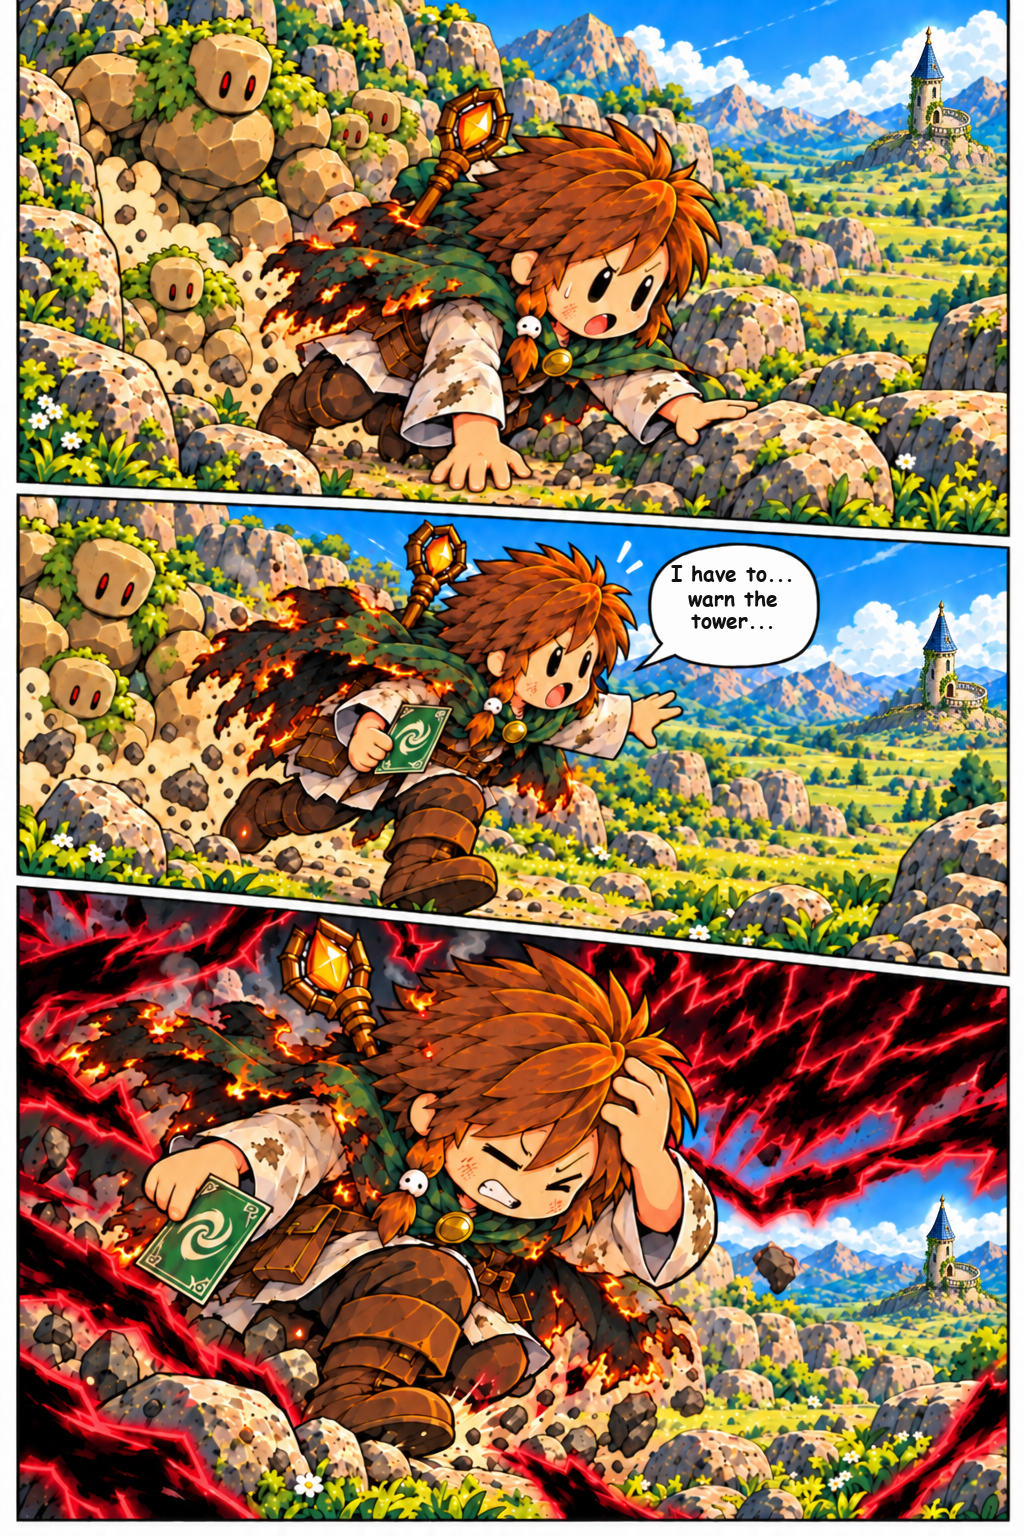
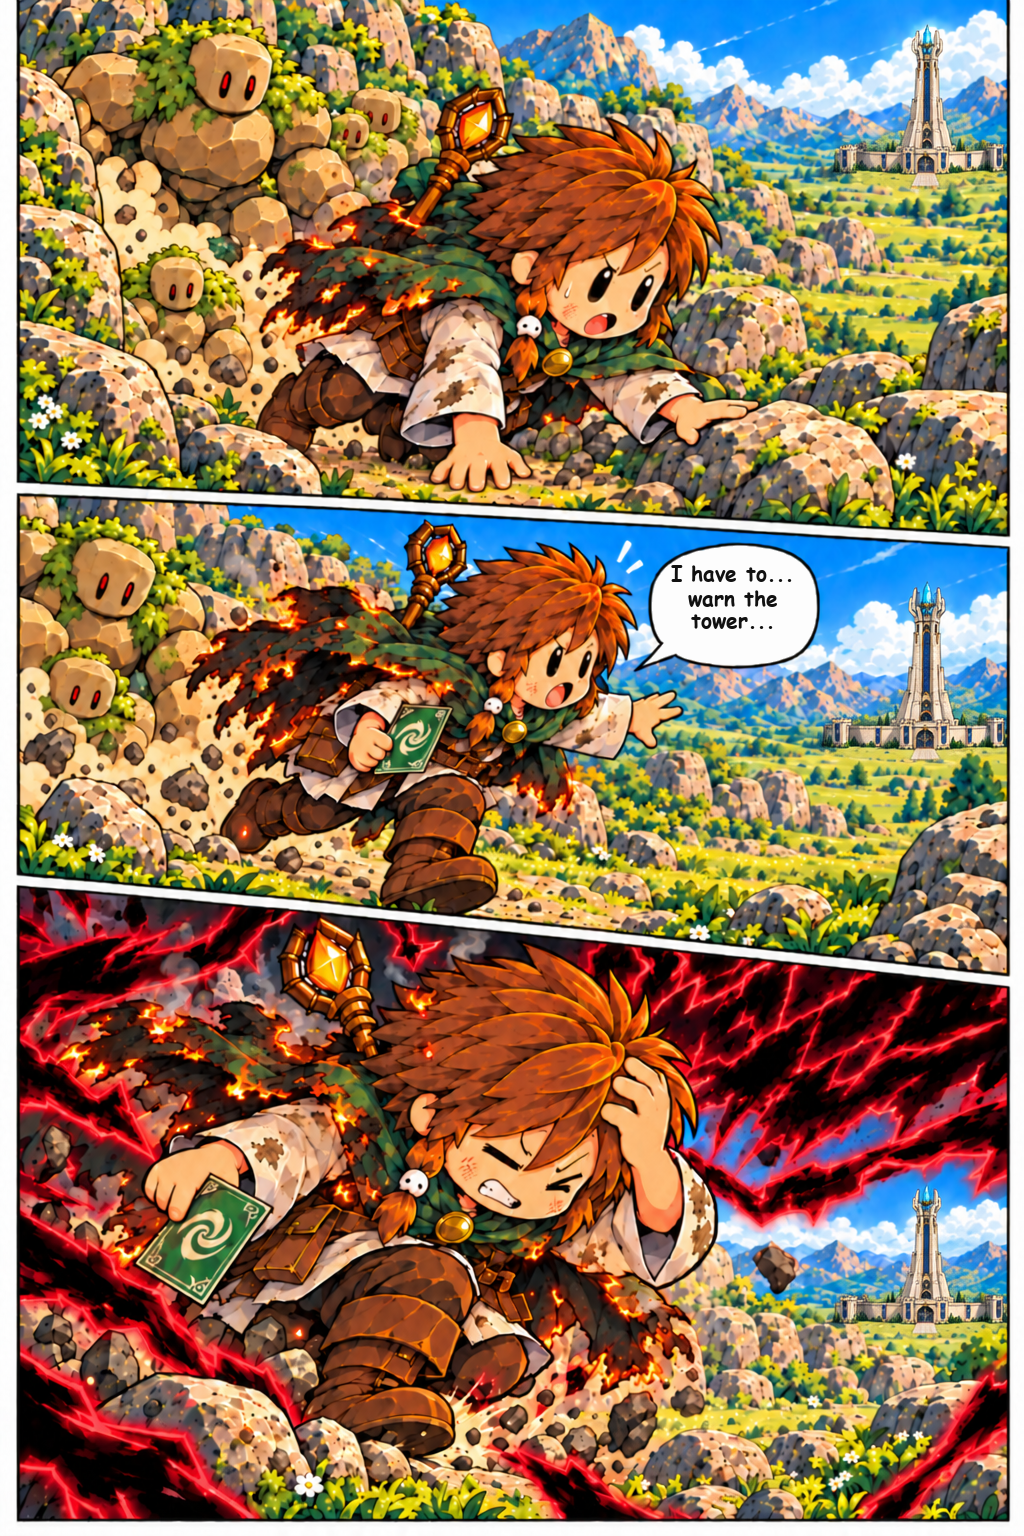
fix: 만화 4화에 승인된 수정 탑 외형 적용

diff --git a/content/arcane-casters/story/episodes/004/index.html b/content/arcane-casters/story/episodes/004/index.html
@@ -2,4 +2,4 @@
 <meta name="viewport" content="width=device-width,initial-scale=1">
 <meta name="robots" content="noindex,noimageindex"><title>4화 · 검토용</title>
 <style>*{box-sizing:border-box}html{background:#0d2238;color:#eef3f8;font-family:system-ui,sans-serif}body{margin:0}header{max-width:900px;margin:auto;padding:24px 16px}h1{font-size:20px;margin:0}main{max-width:900px;margin:auto}figure{margin:0 0 12px}img{display:block;width:100%;height:auto}</style>
-</head><body><header><h1>4화 · 검토용</h1></header><main><figure><img src="art-v3/page-01-portal-continuity.png" alt="문 앞에 남은 핀" width="1024" height="1536" loading="eager"></figure><figure><img src="art-v3/page-02-tornado-demons.png" alt="바람을 틀어 올리다" width="1024" height="1536" loading="lazy"></figure><figure><img src="art-v3/page-03-tornado-demons.png" alt="지붕을 뚫고" width="1024" height="1536" loading="lazy"></figure><figure><img src="art-v2/page-04-burn-continuity.png" alt="익숙한 마을" width="1024" height="1536" loading="lazy"></figure><figure><img src="art-v2/page-05-burn-continuity.png" alt="갈라지는 기운" width="1024" height="1536" loading="lazy"></figure><figure><img src="art-v2/page-06-burn-continuity.png" alt="내밀었던 손" width="1024" height="1536" loading="lazy"></figure><figure><img src="art-v2/page-07-burn-continuity.png" alt="도망길을 막는 돌" width="1024" height="1536" loading="lazy"></figure><figure><img src="art-v3/page-08-tower-continuity.png" alt="탑 쪽으로" width="1024" height="1536" loading="lazy"></figure><figure><img src="art-v3/page-09-single-visible-arm.png" alt="손이 움직이지 않는다" width="1024" height="1536" loading="lazy"></figure><figure><img src="art-v3/page-10-golem-destruction.png" alt="부서진 손" width="1024" height="1536" loading="lazy"></figure><figure><img src="art-v3/page-11-golem-remains.png" alt="같은 방향" width="1024" height="1536" loading="lazy"></figure><figure><img src="art-v2/page-12-burn-continuity.png" alt="하늘의 작은 구름" width="1024" height="1536" loading="lazy"></figure></main></body></html>
+</head><body><header><h1>4화 · 검토용</h1></header><main><figure><img src="art-v3/page-01-portal-continuity.png" alt="문 앞에 남은 핀" width="1024" height="1536" loading="eager"></figure><figure><img src="art-v3/page-02-tornado-demons.png" alt="바람을 틀어 올리다" width="1024" height="1536" loading="lazy"></figure><figure><img src="art-v3/page-03-tornado-demons.png" alt="지붕을 뚫고" width="1024" height="1536" loading="lazy"></figure><figure><img src="art-v2/page-04-burn-continuity.png" alt="익숙한 마을" width="1024" height="1536" loading="lazy"></figure><figure><img src="art-v2/page-05-burn-continuity.png" alt="갈라지는 기운" width="1024" height="1536" loading="lazy"></figure><figure><img src="art-v2/page-06-burn-continuity.png" alt="내밀었던 손" width="1024" height="1536" loading="lazy"></figure><figure><img src="art-v2/page-07-burn-continuity.png" alt="도망길을 막는 돌" width="1024" height="1536" loading="lazy"></figure><figure><img src="art-v3/page-08-approved-crystal-tower.png" alt="탑 쪽으로" width="1024" height="1536" loading="lazy"></figure><figure><img src="art-v3/page-09-single-visible-arm.png" alt="손이 움직이지 않는다" width="1024" height="1536" loading="lazy"></figure><figure><img src="art-v3/page-10-golem-destruction.png" alt="부서진 손" width="1024" height="1536" loading="lazy"></figure><figure><img src="art-v3/page-11-golem-remains.png" alt="같은 방향" width="1024" height="1536" loading="lazy"></figure><figure><img src="art-v2/page-12-burn-continuity.png" alt="하늘의 작은 구름" width="1024" height="1536" loading="lazy"></figure></main></body></html>

diff --git a/content/arcane-casters/story/references/mage-tower-approved-20261030.md b/content/arcane-casters/story/references/mage-tower-approved-20261030.md
@@ -1,0 +1,13 @@
+# 마법 타워 외형 확정
+
+2026-10-30 사용자가 첨부한 조감도·정면·배치도 이미지를 새 외형 기준으로 승인했다.
+
+![승인된 마법 타워](mage-tower-approved-20261030.png)
+
+- 회백색 돌로 된 높은 중앙 주탑과 아래로 벌어지는 지지벽을 사용한다.
+- 꼭대기는 돌 기둥이 감싸는 푸른 수정이며, 세로의 짙은 파란 장식과 금색 테두리가 있다.
+- 낮은 원형 외벽과 작은 사각 망루가 넓은 잔디 안뜰을 둘러싼다.
+- 앞쪽 정문과 맞은편 대피문을 중앙 탑으로 이어지는 길로 연결한다.
+- 주변은 초원이며 이 승인은 별도 인간 도시·민가·산업 문명 추가를 뜻하지 않는다.
+
+기존 파란 원뿔 지붕·돌출 원형 테라스 탑은 이전 외형이다. 이번 첨부 이미지가 우선한다. 기존 회차의 그림은 실제로 교체한 장만 반영 완료로 기록한다. 현재 4화 8장 세 컷에 새 외형을 적용했으며, 다른 회차 전체의 교체 완료를 뜻하지 않는다.

diff --git a/content/arcane-casters/story/episodes/004/REFERENCES.md b/content/arcane-casters/story/episodes/004/REFERENCES.md
@@ -19,4 +19,6 @@
 
 ## 3장과 8장 추가 수정
 
-3장 전면 그림의 지하 토네이도에도 악마가 휘말리며, 열린 차원문 뒤에는 군단이 남는다. 8장의 세 컷에 보이는 탑은 1화 1장의 파란 원뿔 지붕·금색 꼭대기 장식·원통형 돌벽·둥근 테라스·담쟁이 외형으로 맞췄다. 핀·골렘·대사·망토의 불길과 장별 구도는 유지했다.
+3장 전면 그림의 지하 토네이도에도 악마가 휘말리며, 열린 차원문 뒤에는 군단이 남는다. 8장의 세 컷에 보이는 탑은 후속 사용자 승인 이미지의 회백색 주탑·푸른 수정·낮은 원형 외벽·안뜰로 교체했다. 기존 파란 지붕 탑 수정본은 이전 시안으로 보존한다. 핀·골렘·대사·망토의 불길과 장별 구도는 유지했다.
+
+새 외형 기준: [사용자 승인 이미지와 설명](../../references/mage-tower-approved-20261030.md).

diff --git a/content/arcane-casters/story/episodes/004/REVIEW.md b/content/arcane-casters/story/episodes/004/REVIEW.md
@@ -32,4 +32,6 @@
 
 ## 3장과 8장 추가 수정
 
-3장 전면 그림의 지하 토네이도에도 악마가 휘말리며, 열린 차원문 뒤에는 군단이 남는다. 8장의 세 컷에 보이는 탑은 1화 1장의 파란 원뿔 지붕·금색 꼭대기 장식·원통형 돌벽·둥근 테라스·담쟁이 외형으로 맞췄다. 핀·골렘·대사·망토의 불길과 장별 구도는 유지했다.
+3장 전면 그림의 지하 토네이도에도 악마가 휘말리며, 열린 차원문 뒤에는 군단이 남는다. 8장의 세 컷에 보이는 탑은 후속 사용자 승인 이미지의 회백색 주탑·푸른 수정·낮은 원형 외벽·안뜰로 교체했다. 기존 파란 지붕 탑 수정본은 이전 시안으로 보존한다. 핀·골렘·대사·망토의 불길과 장별 구도는 유지했다.
+
+새 외형 기준: [사용자 승인 이미지와 설명](../../references/mage-tower-approved-20261030.md).
